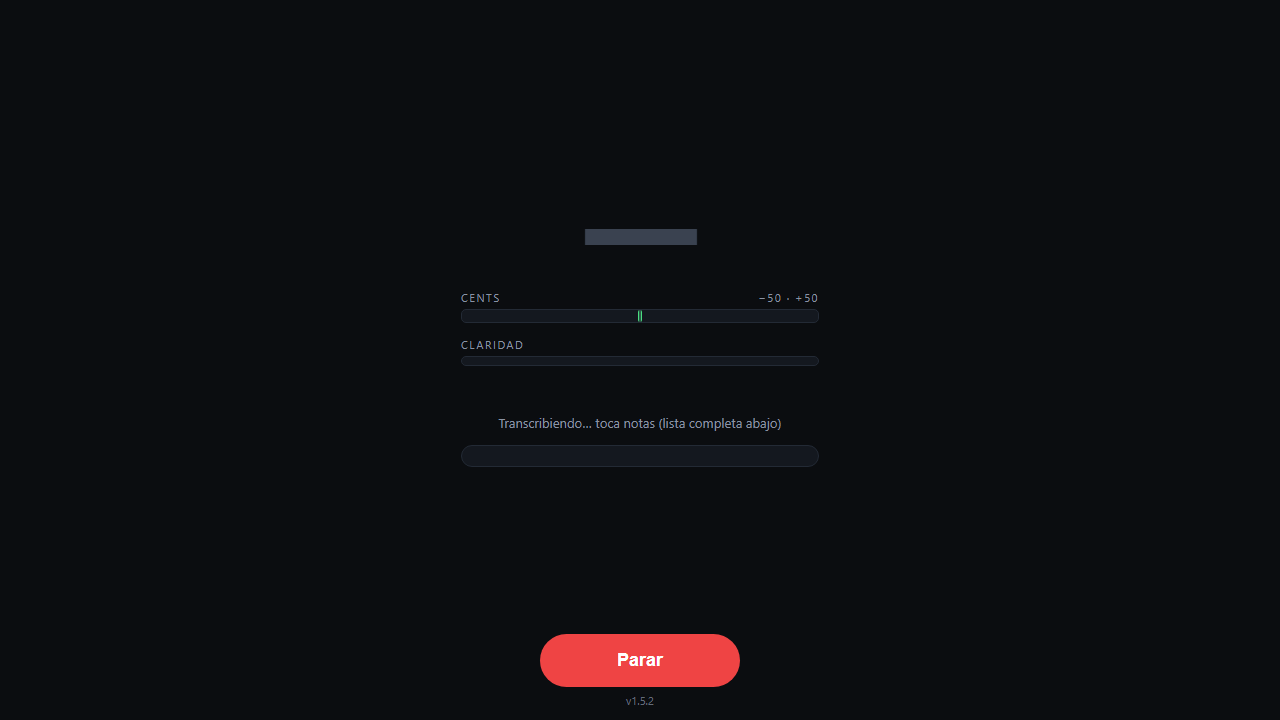
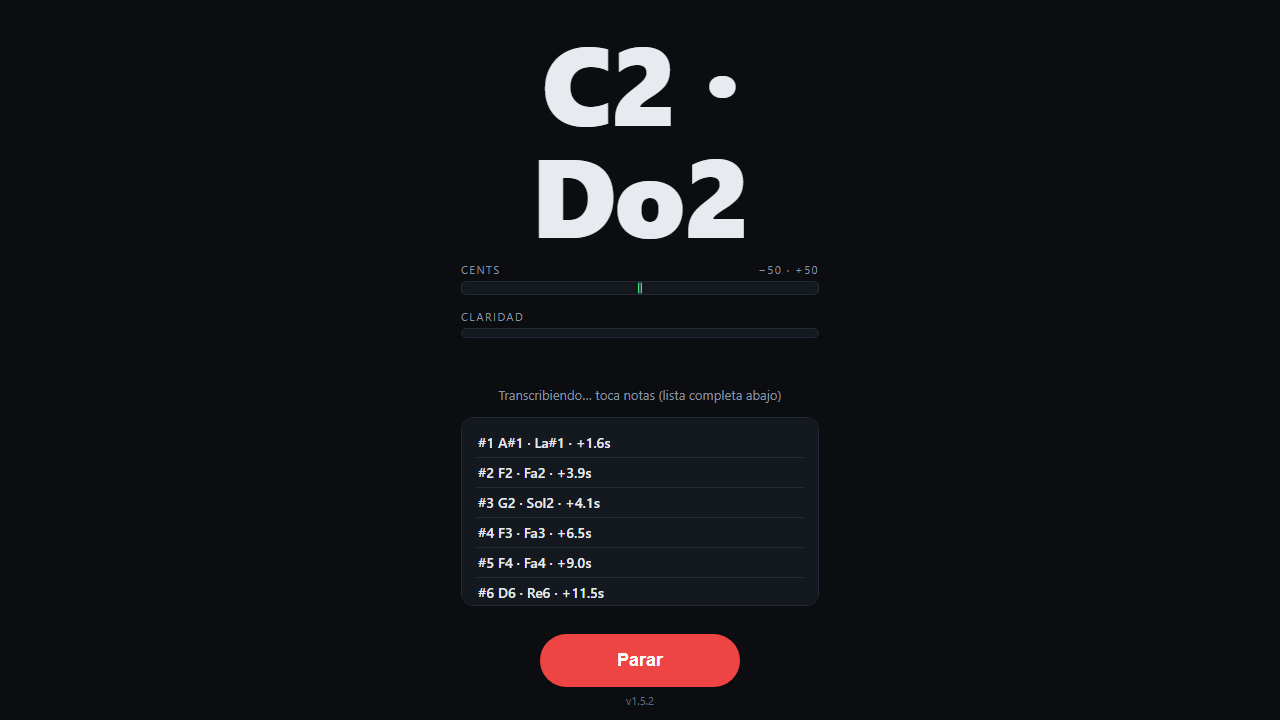
v1.5.2: segmentos de 5s para contexto del modelo

diff --git a/js/app.js b/js/app.js
@@ -436,9 +436,9 @@
     var ringLen = txRing.length;
     var avail = txWritten - txProcIdx;
     // procesar en ventanas de ~2.5s (48k*2.5=120k) para que el modelo vea contexto
-    if (avail < 120000) return;
+    if (avail < 240000) return;
     var start = txProcIdx % ringLen;
-    var count = 120000;
+    var count = 240000;
     var seg = new Float32Array(count);
     var firstPart = Math.min(count, ringLen - start);
     seg.set(txRing.subarray(start, start + firstPart), 0);
